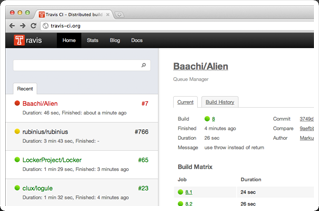
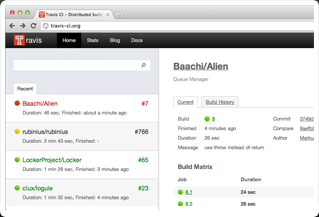
polish layout

diff --git a/stylesheets/styles.css b/stylesheets/styles.css
@@ -42,7 +42,7 @@ sup {
 }
 header > div {
   position: relative;
-  width: 880px;
+  width: 960px;
   margin: auto;
 }
 
@@ -332,7 +332,8 @@ section:hover .sidenote {
 
 #blob {
   position: relative;
-  padding: 20px 0 30px 0;
+  height: 250px;
+  padding: 10px 0 30px 0;
   background: url(/images/background-blob.png) repeat-x;
   color: white;
 }
@@ -345,24 +346,26 @@ section:hover .sidenote {
 #blob .slides li {
   position: absolute;
   display: none;
+  margin: 0;
 }
 #blob .slides .current {
   display: block;
 }
 #blob .slides-pagination {
   position: relative;
-  top: 235px;
-  left: 111px;
+  top: 238px;
+  left: 118px;
 }
 #blob .slides-pagination li {
   display: block;
   float: left;
-  width: 10px;
-  height: 10px;
+  width: 8px;
+  height: 8px;
+  margin: 0;
   margin-right: 8px;
-  -webkit-border-radius: 5px;
-  -moz-border-radius: 5px;
-  border-radius: 5px;
+  -webkit-border-radius: 4px;
+  -moz-border-radius: 4px;
+  border-radius: 4px;
   background-color: #ccc;
   -webkit-box-shadow: inset 1px 1px 2px 0px #666;
   -moz-box-shadow: inset 1px 1px 2px 0px #666;
@@ -375,11 +378,13 @@ section:hover .sidenote {
   background-color: #20bf02;
 }
 #blob p {
+  font-size: 16px;
   margin-left: 350px;
+  margin-top: 18px;
 }
 #blob h3 {
   margin: 0 0 0 350px;
-  font-size: 40px;
+  font-size: 58px;
   font-weight: bold;
 }
 #blob em {
@@ -389,29 +394,33 @@ section:hover .sidenote {
 #blob .conclusion {
   color: #20bf02;
   margin-bottom: 0;
+  font-size: 22px;
 }
 
 #sub {
   position: relative;
-  padding: 5px 40px;
+  padding: 5px 0;
   border-width: 15px 0 15px 0;
   -webkit-border-image: url(/images/background-sub.png) 15 0 15 0 stretch;
   background-color: #e4e7ed;
 }
 #sub blockquote {
-  width: 680px;
+  width: 730px;
   margin: 0;
   padding: 10px;
+  background-color: white;
   border: 1px solid #ddd;
   -webkit-border-radius: 8px;
   -moz-border-radius: 8px;
   border-radius: 8px;
-  background-color: white;
-  font-style: italic;
+  -webkit-box-shadow: inset 2px 2px 6px 0px #ddd;
+  -moz-box-shadow: inset 2px 2px 6px 0px #ddd;
+  box-shadow: inset 1px 1px 4px 0px #ddd;
+  color: #666;
 }
 #sub blockquote img {
   float: left;
-  width: 70px;
+  width: 75px;
   margin-right: 10px;
   border: 1px solid #ddd;
   -webkit-border-radius: 5px;
@@ -425,8 +434,8 @@ section:hover .sidenote {
 }
 #sociallinks {
   position: absolute;
-  left: 720px;
-  top: 0px;
+  top: 0;
+  right: 0;
   width: 190px;
 }
 #sociallinks h4 {

diff --git a/index.html b/index.html
@@ -54,7 +54,7 @@
           <li><img src="images/slides/screen-5.png"></li>
         </ul>
         <h3>We need your help!</h3>
-        <p>Travis CI has run <em>283.346 tests</em> for 3.874 open-source projects so far, including Ruby, Node.js, Rails, Rubygems, Bundler, Symfony, Leiningen ...</p>
+        <p>Travis CI has run <em>283.346 tests</em> for 3.874 open-source projects to date, including Ruby, Node.js, Rails, Rubygems, Bundler, Symfony, Leiningen ...</p>
         <p>If you use any of these then <em>you benefit</em> from Travis CI.</p>
         <p class="conclusion">Please donate so we can make Travis CI even better!</p>
       </div>
@@ -64,9 +64,9 @@
       <div>
         <blockquote>
           <img src="images/brian.jpeg">
-          &ldquo;What Github did for sharing code, Travis CI will do for testing code.
+          What Github did for sharing code, Travis CI will do for testing code.
           The value of this service cannot be overstated. Travis CI is a paradigm shift.
-          The world will be a better place when every open-source developer is  running their test suite on Travis CI.&rdquo;
+          The world will be a better place when every open-source developer is  running their test suite on Travis CI.
           <cite>&mdash; <a href="https://twitter.com/#!/brixen">@brixen</a>, <a href="http://brightredglow.com">Brian Ford</a>, <a href="http://rubini.us/">Rubinius</a></cite>
         </blockquote>
         <div id="sociallinks">
